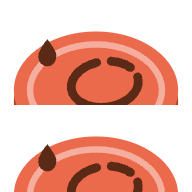
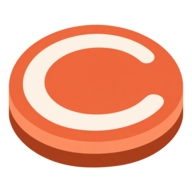
Refine random coaster designs and refresh branding

diff --git a/src/tool/surprise-presets.ts b/src/tool/surprise-presets.ts
@@ -1,0 +1,125 @@
+import type { FontFamilyId } from '@/core/geometry/fonts';
+import type { CoasterShape, PatternId, QUICK_ICONS, ThemeId } from './catalog';
+
+interface Motif {
+  icon: keyof typeof QUICK_ICONS;
+  labels: readonly string[];
+  /** Occasional coffee/beer and 3D-printing wordplay, always paired with the right artwork. */
+  puns?: readonly string[];
+}
+
+interface Collection {
+  motifs: readonly Motif[];
+  shapes: readonly CoasterShape[];
+  fonts: readonly FontFamilyId[];
+  themes: readonly ThemeId[];
+  patterns: readonly PatternId[];
+}
+
+/** Choose a subject first; its lettering, colors and geometry should belong together. */
+export const SURPRISE_COLLECTIONS: readonly Collection[] = [
+  {
+    motifs: [
+      {
+        icon: 'coffee', labels: ['COFFEE', 'ESPRESSO', 'COFFEE BREAK', 'MORNING BREW'],
+        puns: ['LAYER BY LATTE', 'FIRST LAYER FUEL', 'COFFEE & CALIBRATION', 'BREWED IN LAYERS'],
+      },
+      { icon: 'tea', labels: ['TEA TIME', 'AFTERNOON TEA', 'TEA BREAK'] },
+      { icon: 'croissant', labels: ['BRUNCH', 'SUNDAY MORNING'] },
+      { icon: 'cookie', labels: ['COOKIES', 'COFFEE & COOKIES'] },
+    ],
+    shapes: ['circle', 'circle', 'scallop', 'octagon'],
+    fonts: ['montserrat', 'oswald', 'playfair'],
+    themes: ['espresso', 'workshop', 'classic'],
+    patterns: ['rings', 'dots'],
+  },
+  {
+    motifs: [
+      {
+        icon: 'beer', labels: ['ON TAP', 'LAGER', 'BEER GARDEN', 'AFTER HOURS'],
+        puns: ['PRINTS & PINTS', 'LAYER AFTER LAGER', 'HOT BED, COLD BEER', 'FILAMENT & FOAM'],
+      },
+      {
+        icon: 'beerBottle', labels: ['CRAFT BEER', 'PALE ALE', 'COLD BEER'],
+        puns: ['PRINTS & PINTS', 'LAYER AFTER LAGER', 'HOT BED, COLD BEER'],
+      },
+    ],
+    shapes: ['circle', 'circle', 'hexagon', 'octagon'],
+    fonts: ['oswald', 'righteous', 'bungee'],
+    themes: ['espresso', 'workshop', 'classic'],
+    patterns: ['rings', 'sunburst'],
+  },
+  {
+    motifs: [
+      { icon: 'wine', labels: ['WINE BAR', 'HOUSE WINE'] },
+      { icon: 'cocktail', labels: ['APERITIVO', 'COCKTAIL HOUR'] },
+      { icon: 'citrus', labels: ['CITRUS', 'ON THE ROCKS'] },
+      { icon: 'champagne', labels: ['CHEERS', 'BUBBLES'] },
+    ],
+    shapes: ['circle', 'scallop', 'octagon'],
+    fonts: ['playfair', 'montserrat', 'righteous'],
+    themes: ['midnight', 'beachBar', 'mojito'],
+    patterns: ['dots', 'rings'],
+  },
+  {
+    motifs: [
+      { icon: 'leaf', labels: ['BOTANICAL', 'LEAVES'] },
+      { icon: 'flower', labels: ['IN BLOOM', 'WILDFLOWERS'] },
+      { icon: 'mushroom', labels: ['WOODLAND', 'MUSHROOMS'] },
+      { icon: 'bee', labels: ['HONEY BEE', 'POLLEN CLUB'] },
+      { icon: 'cactus', labels: ['CACTUS', 'DESERT GARDEN'] },
+    ],
+    shapes: ['circle', 'flower', 'scallop'],
+    fonts: ['montserrat', 'playfair'],
+    themes: ['mojito', 'workshop', 'espresso'],
+    patterns: ['dots', 'rings'],
+  },
+  {
+    motifs: [
+      { icon: 'wave', labels: ['TIDELINE', 'SEA GLASS'] },
+      { icon: 'sailboat', labels: ['SAILING CLUB', 'OFFSHORE'] },
+      { icon: 'palm', labels: ['PALM BEACH', 'SUMMER HOUSE'] },
+      { icon: 'beach', labels: ['BEACH BAR', 'BY THE SEA'] },
+    ],
+    shapes: ['circle', 'scallop', 'square'],
+    fonts: ['righteous', 'montserrat'],
+    themes: ['beachBar', 'mojito', 'midnight'],
+    patterns: ['waves', 'sunburst'],
+  },
+  {
+    motifs: [
+      { icon: 'mountains', labels: ['ALPINE', 'BASE CAMP'] },
+      { icon: 'tent', labels: ['CAMP COFFEE', 'CAMPSITE'] },
+      { icon: 'pine', labels: ['PINE FOREST', 'CABIN'] },
+      { icon: 'compass', labels: ['NORTH', 'TRAILHEAD'] },
+    ],
+    shapes: ['circle', 'hexagon', 'octagon'],
+    fonts: ['oswald', 'montserrat'],
+    themes: ['workshop', 'espresso', 'mojito'],
+    patterns: ['rings', 'dots'],
+  },
+  {
+    motifs: [
+      { icon: 'moon', labels: ['MOONLIGHT', 'NIGHT SHIFT'] },
+      { icon: 'orbit', labels: ['ORBIT', 'LOW EARTH ORBIT'] },
+      { icon: 'rocket', labels: ['LIFT OFF', 'SPACE CLUB'] },
+      { icon: 'sun', labels: ['DAYLIGHT', 'GOLDEN HOUR'] },
+    ],
+    shapes: ['circle', 'hexagon', 'octagon'],
+    fonts: ['righteous', 'oswald', 'montserrat'],
+    themes: ['midnight', 'classic', 'citrus'],
+    patterns: ['rings', 'sunburst'],
+  },
+  {
+    motifs: [
+      { icon: 'gamepad', labels: ['PLAYER ONE', 'GAME NIGHT'] },
+      { icon: 'dice', labels: ['GAME NIGHT', 'YOUR TURN'] },
+      { icon: 'headphones', labels: ['LISTENING ROOM', 'SIDE A'] },
+      { icon: 'nozzle', labels: ['MAKER SPACE', 'LAYER ONE'] },
+    ],
+    shapes: ['circle', 'square', 'hexagon', 'gear'],
+    fonts: ['righteous', 'oswald', 'bungee'],
+    themes: ['classic', 'midnight', 'workshop'],
+    patterns: ['checker', 'rings'],
+  },
+];

diff --git a/src/tool/surprise.ts b/src/tool/surprise.ts
@@ -1,44 +1,66 @@
-import {
-  COASTER_SHAPES, PATTERNS, QUICK_ICONS, SURPRISE_TEXTS, THEMES,
-} from './catalog';
+import { toNumber } from '@/core/utils/options';
+import { QUICK_ICONS, THEMES } from './catalog';
 import type { ToolOptions } from './options';
-import { LOBE_RANGES } from './outline';
+import { SURPRISE_COLLECTIONS } from './surprise-presets';
 
 const pick = <T>(list: readonly T[]): T => list[Math.floor(Math.random() * list.length)];
 const chance = (probability: number) => Math.random() < probability;
 
 /**
- * "Surprise me": a random but sensible coaster. Keeps the size, thickness and print settings,
- * replaces shape, artwork, text, pattern and colors, and clears the drawing.
+ * Keeps size, thickness and print settings. Each roll combines a related icon and caption
+ * with a compatible shape, typeface and palette, then resets the design's layout settings.
  */
 export const surprise = (options: ToolOptions) => {
-  const shape = chance(0.45) ? 'circle' : pick(COASTER_SHAPES);
-  options.coaster.shape = shape;
-  if (shape === 'flower' || shape === 'scallop' || shape === 'gear') {
-    const range = LOBE_RANGES[shape];
-    options.coaster.lobes = range.min + Math.floor(Math.random() * (range.max - range.min + 1));
-  }
-  options.rim.enabled = chance(0.7);
+  const currentIcon = options.artwork.icon?.id;
+  const collection = pick(SURPRISE_COLLECTIONS.filter((item) => !item.motifs
+    .some((motif) => currentIcon === `quick:${motif.icon}`)));
+  const motif = pick(collection.motifs);
+  const labels = motif.puns && chance(0.35) ? motif.puns : motif.labels;
+  const alternatives = labels.filter((label) => label !== options.text.top);
+  const caption = chance(0.8) ? pick(alternatives.length ? alternatives : labels) : '';
+  const size = toNumber(options.coaster.size, 100, 40, 250);
+  const scale = size / 100;
+  const faceDown = options.print.relief !== 'raised' && options.print.faceDown;
 
-  const [iconId, icon] = pick(Object.entries(QUICK_ICONS));
+  const shape = pick(collection.shapes);
+  options.coaster.shape = shape;
+  options.coaster.cornerRadius = Math.min(10, size * 0.08);
+  if (shape === 'flower' || shape === 'scallop' || shape === 'gear') {
+    options.coaster.lobes = pick({ flower: [6, 8, 10], scallop: [16, 20, 24], gear: [12, 16, 20] }[shape]);
+  }
+  options.rim.enabled = !faceDown && chance(0.65);
+  options.rim.width = Math.max(1.2, Math.min(4, 3 * scale));
+  options.rim.height = options.print.relief === 'raised'
+    ? Math.max(1.2, toNumber(options.print.depth, 1, 0.2, 5)) : 1.2;
+
+  const icon = QUICK_ICONS[motif.icon];
   options.artwork.source = 'icon';
-  options.artwork.icon = { id: `quick:${iconId}`, name: icon.name, path: icon.path };
-  options.artwork.scale = 38 + Math.round(Math.random() * 16);
-  options.artwork.rotation = chance(0.2) ? pick([-15, -8, 8, 15]) : 0;
+  options.artwork.icon = { id: `quick:${motif.icon}`, name: icon.name, path: icon.path };
+  options.artwork.upload = null;
+  options.artwork.scale = caption ? pick([40, 44, 48]) : pick([56, 60, 64]);
+  options.artwork.rotation = 0;
   options.artwork.offsetX = 0;
   options.artwork.offsetY = 0;
   options.drawing.strokes = [];
 
-  options.text.top = chance(0.85) ? pick(SURPRISE_TEXTS.top) : '';
-  options.text.bottom = chance(0.45) ? pick(SURPRISE_TEXTS.bottom) : '';
+  options.text.top = caption;
+  options.text.bottom = '';
   options.text.center = '';
-  options.text.font = pick(['montserrat', 'oswald', 'righteous', 'bungee', 'playfair', 'lobster'] as const);
+  options.text.font = caption.length > 16 ? 'oswald' : pick(collection.fonts);
+  options.text.bold = true;
+  options.text.size = Math.max(2.8, Math.min(8, 5.5 * scale));
+  options.text.centerSize = options.text.size;
+  options.text.letterSpacing = 0.06;
+  options.text.centerAlign = 'center';
 
-  options.pattern.type = chance(0.5) ? 'none' : pick(PATTERNS.filter((pattern) => pattern !== 'none'));
+  options.pattern.type = chance(caption ? 0.7 : 0.4) ? 'none' : pick(collection.patterns);
+  options.pattern.spacing = Math.max(4, 10 * scale);
+  options.pattern.weight = Math.max(0.8, Math.min(2, 1.2 * scale));
+  options.pattern.clearance = Math.max(1.5, 3 * scale);
   options.pattern.seed = Math.floor(Math.random() * 1000);
-  options.pattern.rotation = pick([0, 0, 15, 30, 45]);
+  options.pattern.rotation = 0;
 
-  const theme = THEMES[pick(Object.keys(THEMES) as (keyof typeof THEMES)[])];
+  const theme = THEMES[pick(collection.themes)];
   options.colors.base = theme.base;
   options.colors.design = theme.design;
   options.colors.accent = theme.accent;

diff --git a/src/tool/catalog.ts b/src/tool/catalog.ts
@@ -84,7 +84,7 @@ export type ThemeId = keyof typeof THEMES;
 /* The full icon and brand library is searched through the server API. */
 /* ------------------------------------------------------------------ */
 
-export const QUICK_ICONS: Record<string, { name: string; path: string }> = {
+export const QUICK_ICONS = {
   coffee: { name: 'Coffee', path: mdiCoffee },
   tea: { name: 'Tea', path: mdiTea },
   kettle: { name: 'Kettle', path: mdiKettle },
@@ -169,13 +169,4 @@ export const QUICK_ICONS: Record<string, { name: string; path: string }> = {
   nozzle: { name: '3D printer nozzle', path: mdiPrinter3dNozzle },
   cube: { name: 'Cube', path: mdiCube },
   hexagons: { name: 'Hexagons', path: mdiHexagonMultiple },
-};
-
-/* ------------------------------------------------------------------ */
-/* "Surprise me"                                                       */
-/* ------------------------------------------------------------------ */
-
-export const SURPRISE_TEXTS = {
-  top: ['COFFEE FIRST', 'CHEERS', 'BAR IS OPEN', 'HOME SWEET HOME', 'STAY HYDRATED', 'HAPPY HOUR', 'TEA TIME', 'GOOD VIBES ONLY', 'MADE WITH LOVE', 'BUT FIRST, COFFEE'],
-  bottom: ['EST. 2026', 'NO RINGS ALLOWED', 'PRINTED WITH LOVE', 'SINCE TODAY', 'DRINK RESPONSIBLY', 'ONE MORE CUP', 'KEEP IT COOL'],
-} as const;
+} satisfies Record<string, { name: string; path: string }>;

diff --git a/index.html b/index.html
@@ -3,11 +3,12 @@
   <head>
     <meta charset="utf-8">
     <meta name="viewport" content="width=device-width,initial-scale=1.0">
-    <link rel="icon" href="/favicon.ico" sizes="16x16 32x32 48x48" type="image/x-icon">
-    <link rel="icon" href="/favicon-16.png" sizes="16x16" type="image/png">
-    <link rel="icon" href="/favicon-32.png" sizes="32x32" type="image/png">
-    <link rel="apple-touch-icon" href="/apple-touch-icon.png">
-    <link rel="manifest" href="/site.webmanifest">
+    <link rel="icon" href="/favicon.ico?v=2" sizes="16x16 32x32 48x48" type="image/x-icon">
+    <link rel="icon" href="/favicon-16.png?v=2" sizes="16x16" type="image/png">
+    <link rel="icon" href="/favicon-32.png?v=2" sizes="32x32" type="image/png">
+    <link rel="icon" href="/favicon.png?v=2" sizes="64x64" type="image/png">
+    <link rel="apple-touch-icon" href="/apple-touch-icon.png?v=2">
+    <link rel="manifest" href="/site.webmanifest?v=2">
     <meta name="theme-color" content="#ffffff">
     <meta name="color-scheme" content="light dark">
     <script>

diff --git a/vite/site-plugin.ts b/vite/site-plugin.ts
@@ -227,9 +227,9 @@ export default function sitePlugin({ site, faq, version }: { site: SiteConfig; f
           description: messages[defaultLocale].seo.description,
           lang: defaultLocale,
           icons: [
-            { src: '/icon-192.png', sizes: '192x192', type: 'image/png' },
-            { src: '/icon-512.png', sizes: '512x512', type: 'image/png' },
-            { src: '/favicon.png', sizes: '64x64', type: 'image/png' },
+            { src: '/icon-192.png?v=2', sizes: '192x192', type: 'image/png' },
+            { src: '/icon-512.png?v=2', sizes: '512x512', type: 'image/png' },
+            { src: '/favicon.png?v=2', sizes: '64x64', type: 'image/png' },
           ],
           theme_color: '#ffffff',
           background_color: '#ffffff',

diff --git a/admin.html b/admin.html
@@ -4,7 +4,7 @@
     <meta charset="utf-8">
     <meta name="viewport" content="width=device-width,initial-scale=1.0">
     <meta name="robots" content="noindex, nofollow">
-    <link rel="icon" href="/favicon.ico" sizes="16x16 32x32 48x48" type="image/x-icon">
+    <link rel="icon" href="/favicon.ico?v=2" sizes="16x16 32x32 48x48" type="image/x-icon">
     <meta name="color-scheme" content="light dark">
     <script>
       // Apply the saved or system color theme before first paint to avoid a flash.

diff --git a/src/site.config.ts b/src/site.config.ts
@@ -60,7 +60,7 @@ export interface SiteConfig {
 
 const siteConfig: SiteConfig = {
   name: 'Coaster2STL',
-  logo: '/logo.svg',
+  logo: '/coaster2stl-logo.png',
   url: 'https://coaster2stl.printer.tools/',
   image: 'https://coaster2stl.printer.tools/preview.png',
   filePrefix: 'coaster',

diff --git a/docs/branding/README.md b/docs/branding/README.md
@@ -1,0 +1,26 @@
+# Coaster2STL icon
+
+A coral coaster with an ivory C and stacked edges that suggest printed layers.
+The square master has a transparent background and supplies the header, footer,
+favicon and app icons.
+
+- Original artwork: `coaster2stl-icon-master.png`
+- Generation prompt: `prompt.txt`
+- Header and footer: `public/coaster2stl-logo.png`, 256 px
+- Browser icons: 16, 32, 48 and 64 px PNGs, plus a 16/32/48 px ICO
+- App icons: 192 and 512 px PNGs
+- Apple touch icon: 180 px with an opaque warm-white background
+
+Created with the built-in imagegen tool on 2026-10-11. ImageMagick exports the
+smaller files without changing the artwork or adding a CSS color filter.
+
+To regenerate the assets, install ImageMagick and run from the repository root:
+
+```sh
+bash scripts/export-brand-icons.sh
+npm run build
+```
+
+The header and footer share `siteConfig.logo`. Browser icon links live in
+`index.html`; app icon links live in `vite/site-plugin.ts`. The `v=2` query on
+existing icon URLs refreshes cached copies of the previous artwork.
